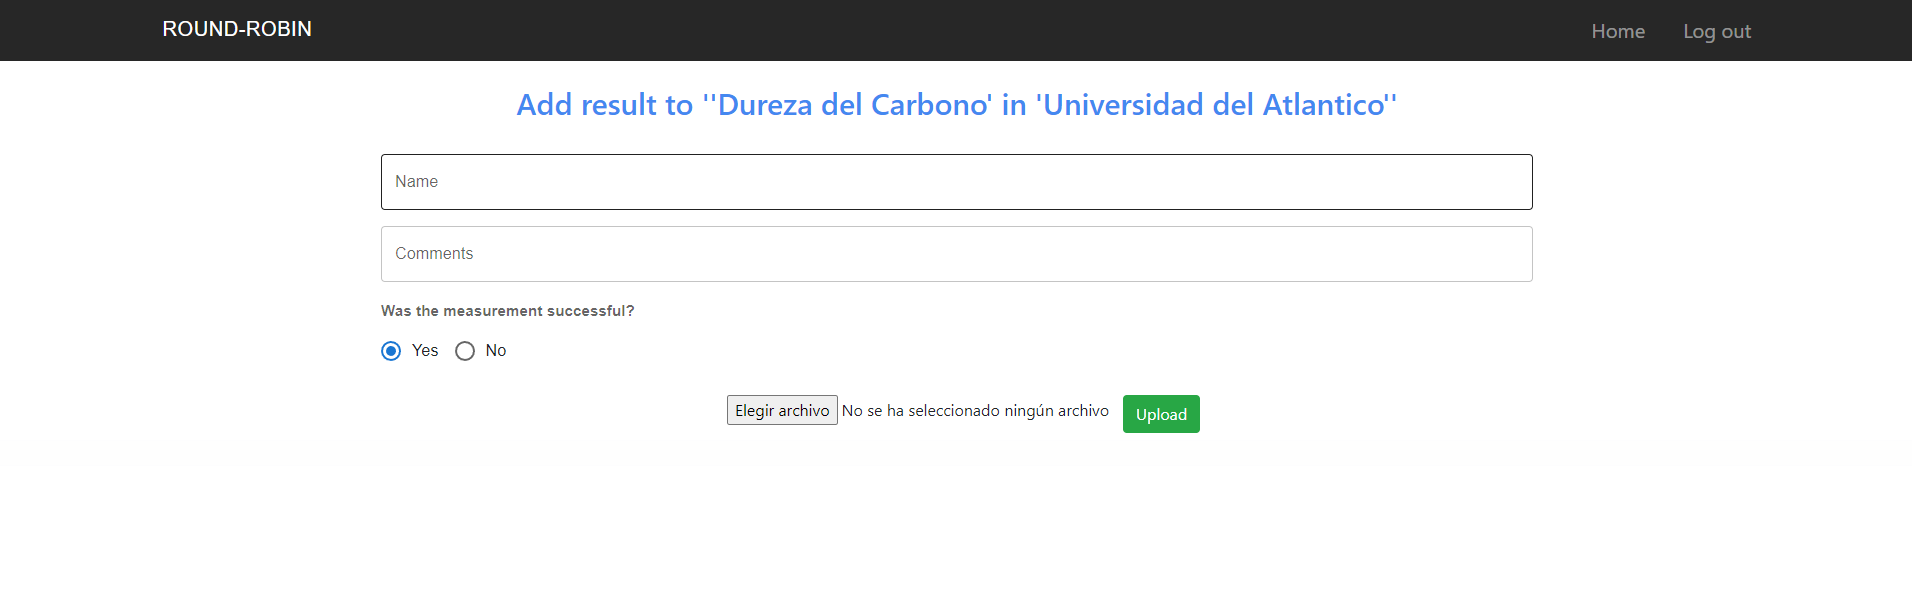
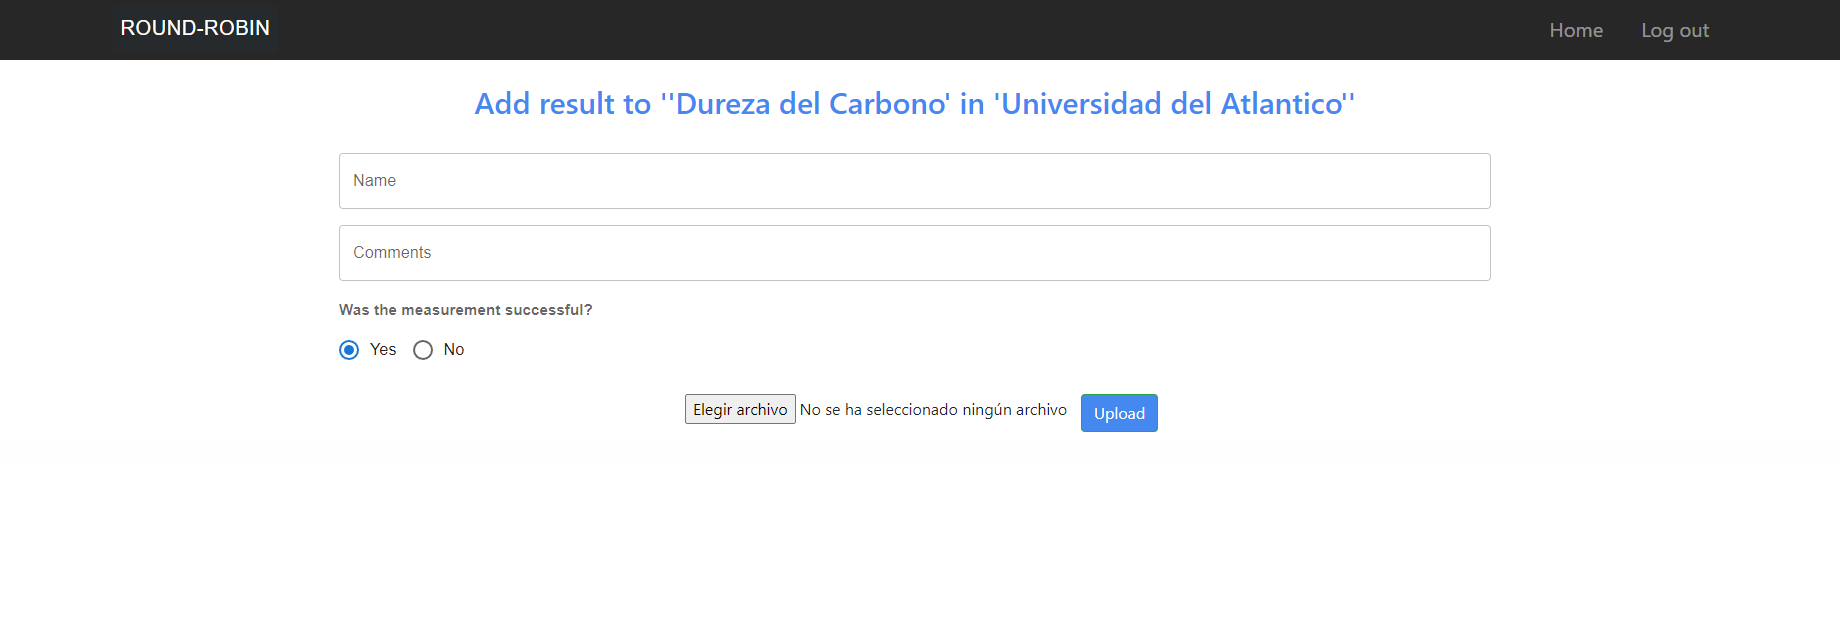
Added pictures and diagrams

diff --git a/WorkspaceTFG/roundrobinfrontend/src/components/AddResult.jsx b/WorkspaceTFG/roundrobinfrontend/src/components/AddResult.jsx
@@ -232,7 +232,7 @@ export function AddResult() {
 
         {/* Button to add the result file to Database */}
         {/* <button className="btn btn-success" disabled={!selectedFiles} onClick={upload} > */}
-        <button className="btn btn-success" onClick={upload} >
+        <button className="btn btn-success botonn" onClick={upload} >
           Upload
         </button>
 

diff --git a/WorkspaceTFG/roundrobinfrontend/src/index.css b/WorkspaceTFG/roundrobinfrontend/src/index.css
@@ -70,6 +70,10 @@ code {
     max-width: 100%;
   }
 
+  .botonn{
+    background-color: #4488f0;
+  }
+
   .result-container {
     max-width: 95%;
     justify-content: center;
